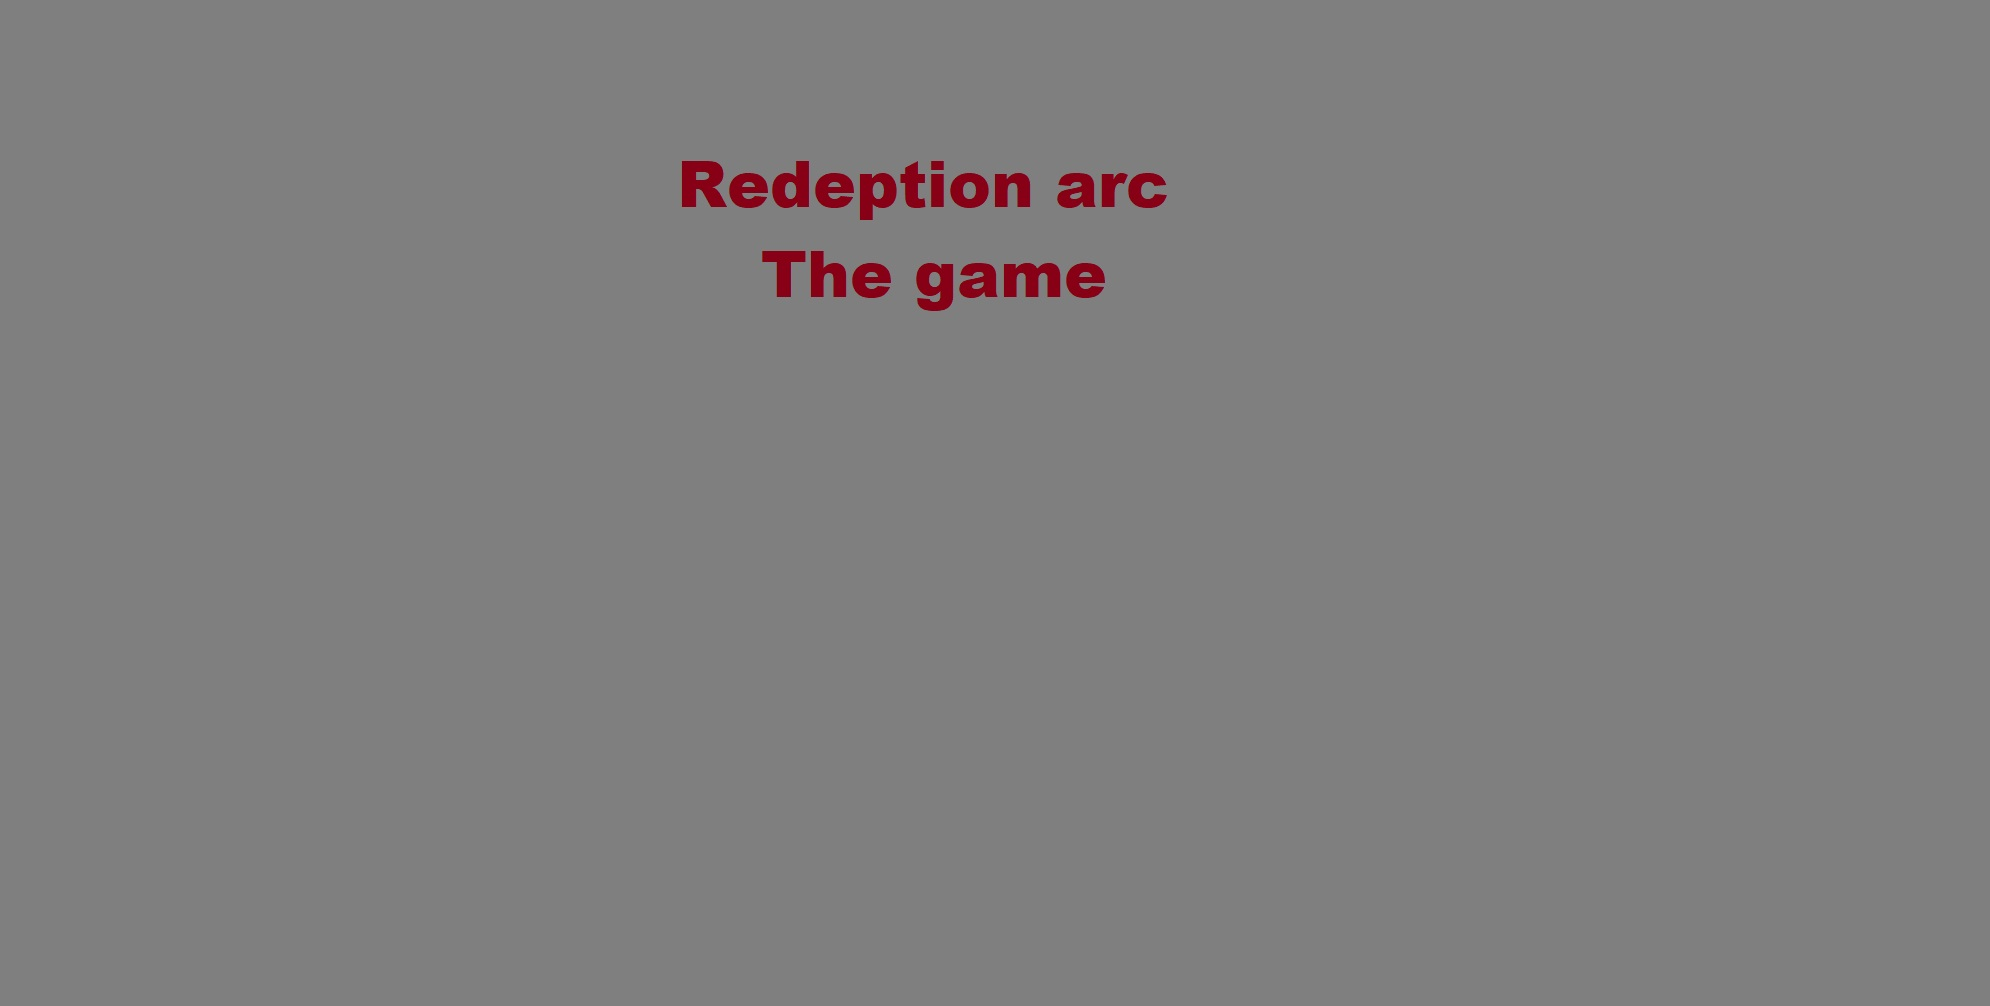
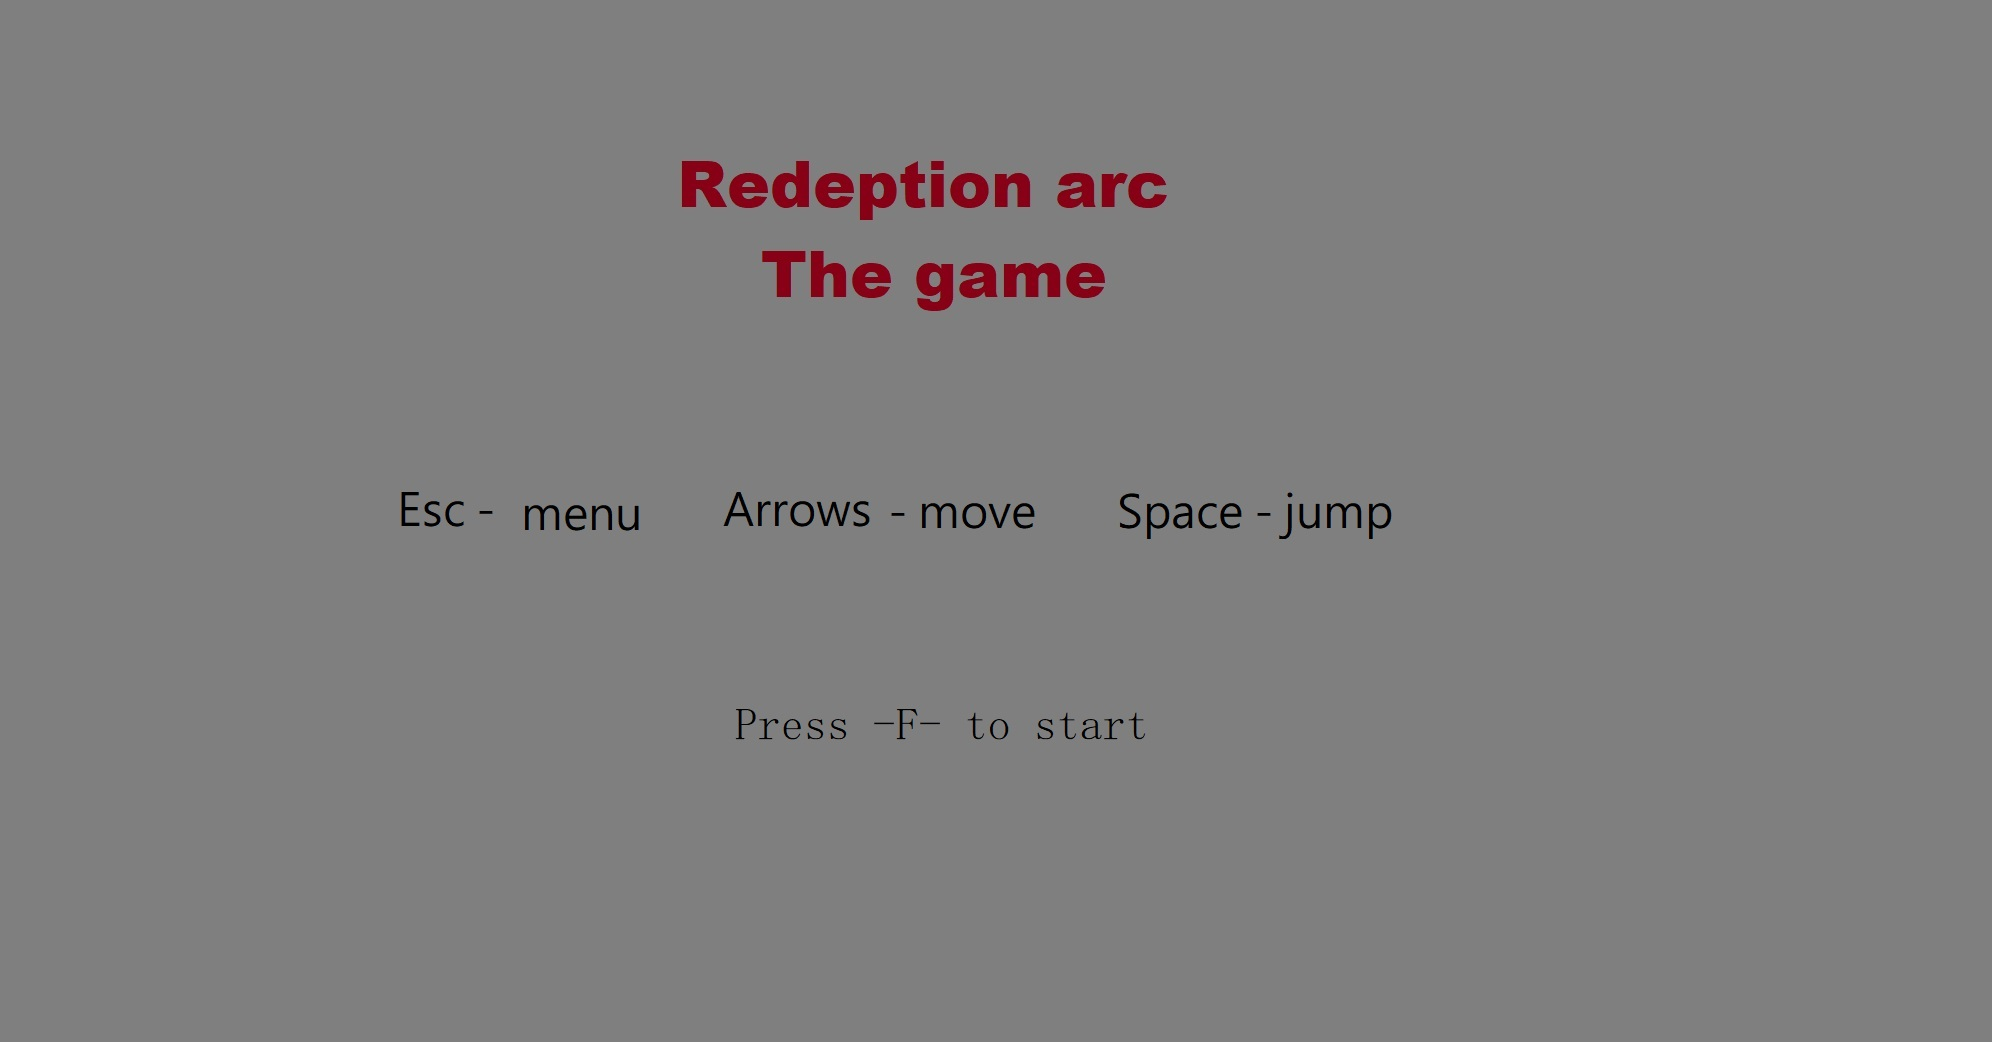
Исправлены спрайты пыли, добавлен вступительный экран

diff --git a/main.py b/main.py
@@ -1,19 +1,21 @@
 import pygame
 from settings.settings import *
 from settings import settings
-from level import Level
+from engine.level import Level
 
 
 pygame.init()
+pygame.display.set_caption("Redemption ark")
 screen = pygame.display.set_mode((screen_width, screen_height))
 clock = pygame.time.Clock()
-level = Level(levels[settings.current_level], screen)
-backgrounds = {1: r'graphics/background/background1.png',
+actual_level = 1
+level = Level(levels[actual_level], screen)
+backgrounds = {0: r'graphics/background/background0.png',
+               1: r'graphics/background/background1.png',
                2: r'graphics/background/background2.png',
                3: r'graphics/background/background3.png',
                4: r'graphics/background/background4.png'}
 back_ground = pygame.image.load(backgrounds[settings.current_level])
-actual_level = 1
 
 while True:
     if settings.current_level != actual_level:
@@ -27,6 +29,8 @@ while True:
         settings.door_locked = 1
         settings.dead_state = 0
         level.setup_level(levels[settings.current_level])
+    if settings.game_started == 0:
+        screen.blit(pygame.image.load(backgrounds[0]), (0, 0))
 
     pygame.display.update()
     clock.tick(60)

diff --git a/player.py b/player.py
@@ -63,11 +63,13 @@ class Player(pygame.sprite.Sprite):
             dust_particle = self.dust_run_particles[int(self.dust_frame_index)]
 
             if self.facing_right:
-                pos = self.rect.bottomleft - pygame.math.Vector2(30, 45)
+                pos = self.rect.bottomleft - pygame.math.Vector2(46, 37)
+                dust_particle.set_colorkey((255, 255, 255))
                 self.display_surface.blit(dust_particle, pos)
             else:
-                pos = self.rect.bottomleft - pygame.math.Vector2(-24, 45)
+                pos = self.rect.bottomleft - pygame.math.Vector2(-30, 35)
                 flipped_particle = pygame.transform.flip(dust_particle, True, False)
+                flipped_particle.set_colorkey((255, 255, 255))
                 self.display_surface.blit(flipped_particle, pos)
 
     def get_status(self):

diff --git a/settings/settings.py b/settings/settings.py
@@ -54,13 +54,16 @@ level_map3 = [
     'X                X P  K  D X                                                                                    X',
     'XXXXXXXXXXXXXXXXXXXXXXXXXXXXXXXXXXXXXXXXXXXXXXXXXXXXXXXXXXXXXXXXXXXXXXXXXXXXXXXXXXXXXXXXXXXXXXXXXXXXXXXXXXXXXXXXXX'
 ]
+extra_map = [None for i in range(16)]
+
 
 tile_size = 64
 screen_width = 1800
 current_level = 1
+game_started = 0
 menu_state = 0
 dead_state = 0
 door_locked = 1
 menu_choose = 0
 levels = {1: level_map1, 2: level_map2, 3: level_map3}
-screen_height = len(levels[current_level]) * tile_size
+screen_height = 16 * tile_size

diff --git a/engine/level.py b/engine/level.py
@@ -72,6 +72,8 @@ class Level:
                 pygame.quit()
                 sys.exit()
             if event.type == pygame.KEYDOWN:
+                if event.key == pygame.K_f:
+                    settings.game_started = 1
                 if event.key == pygame.K_ESCAPE:
                     if settings.menu_state != 1:
                         settings.menu_state += 1
